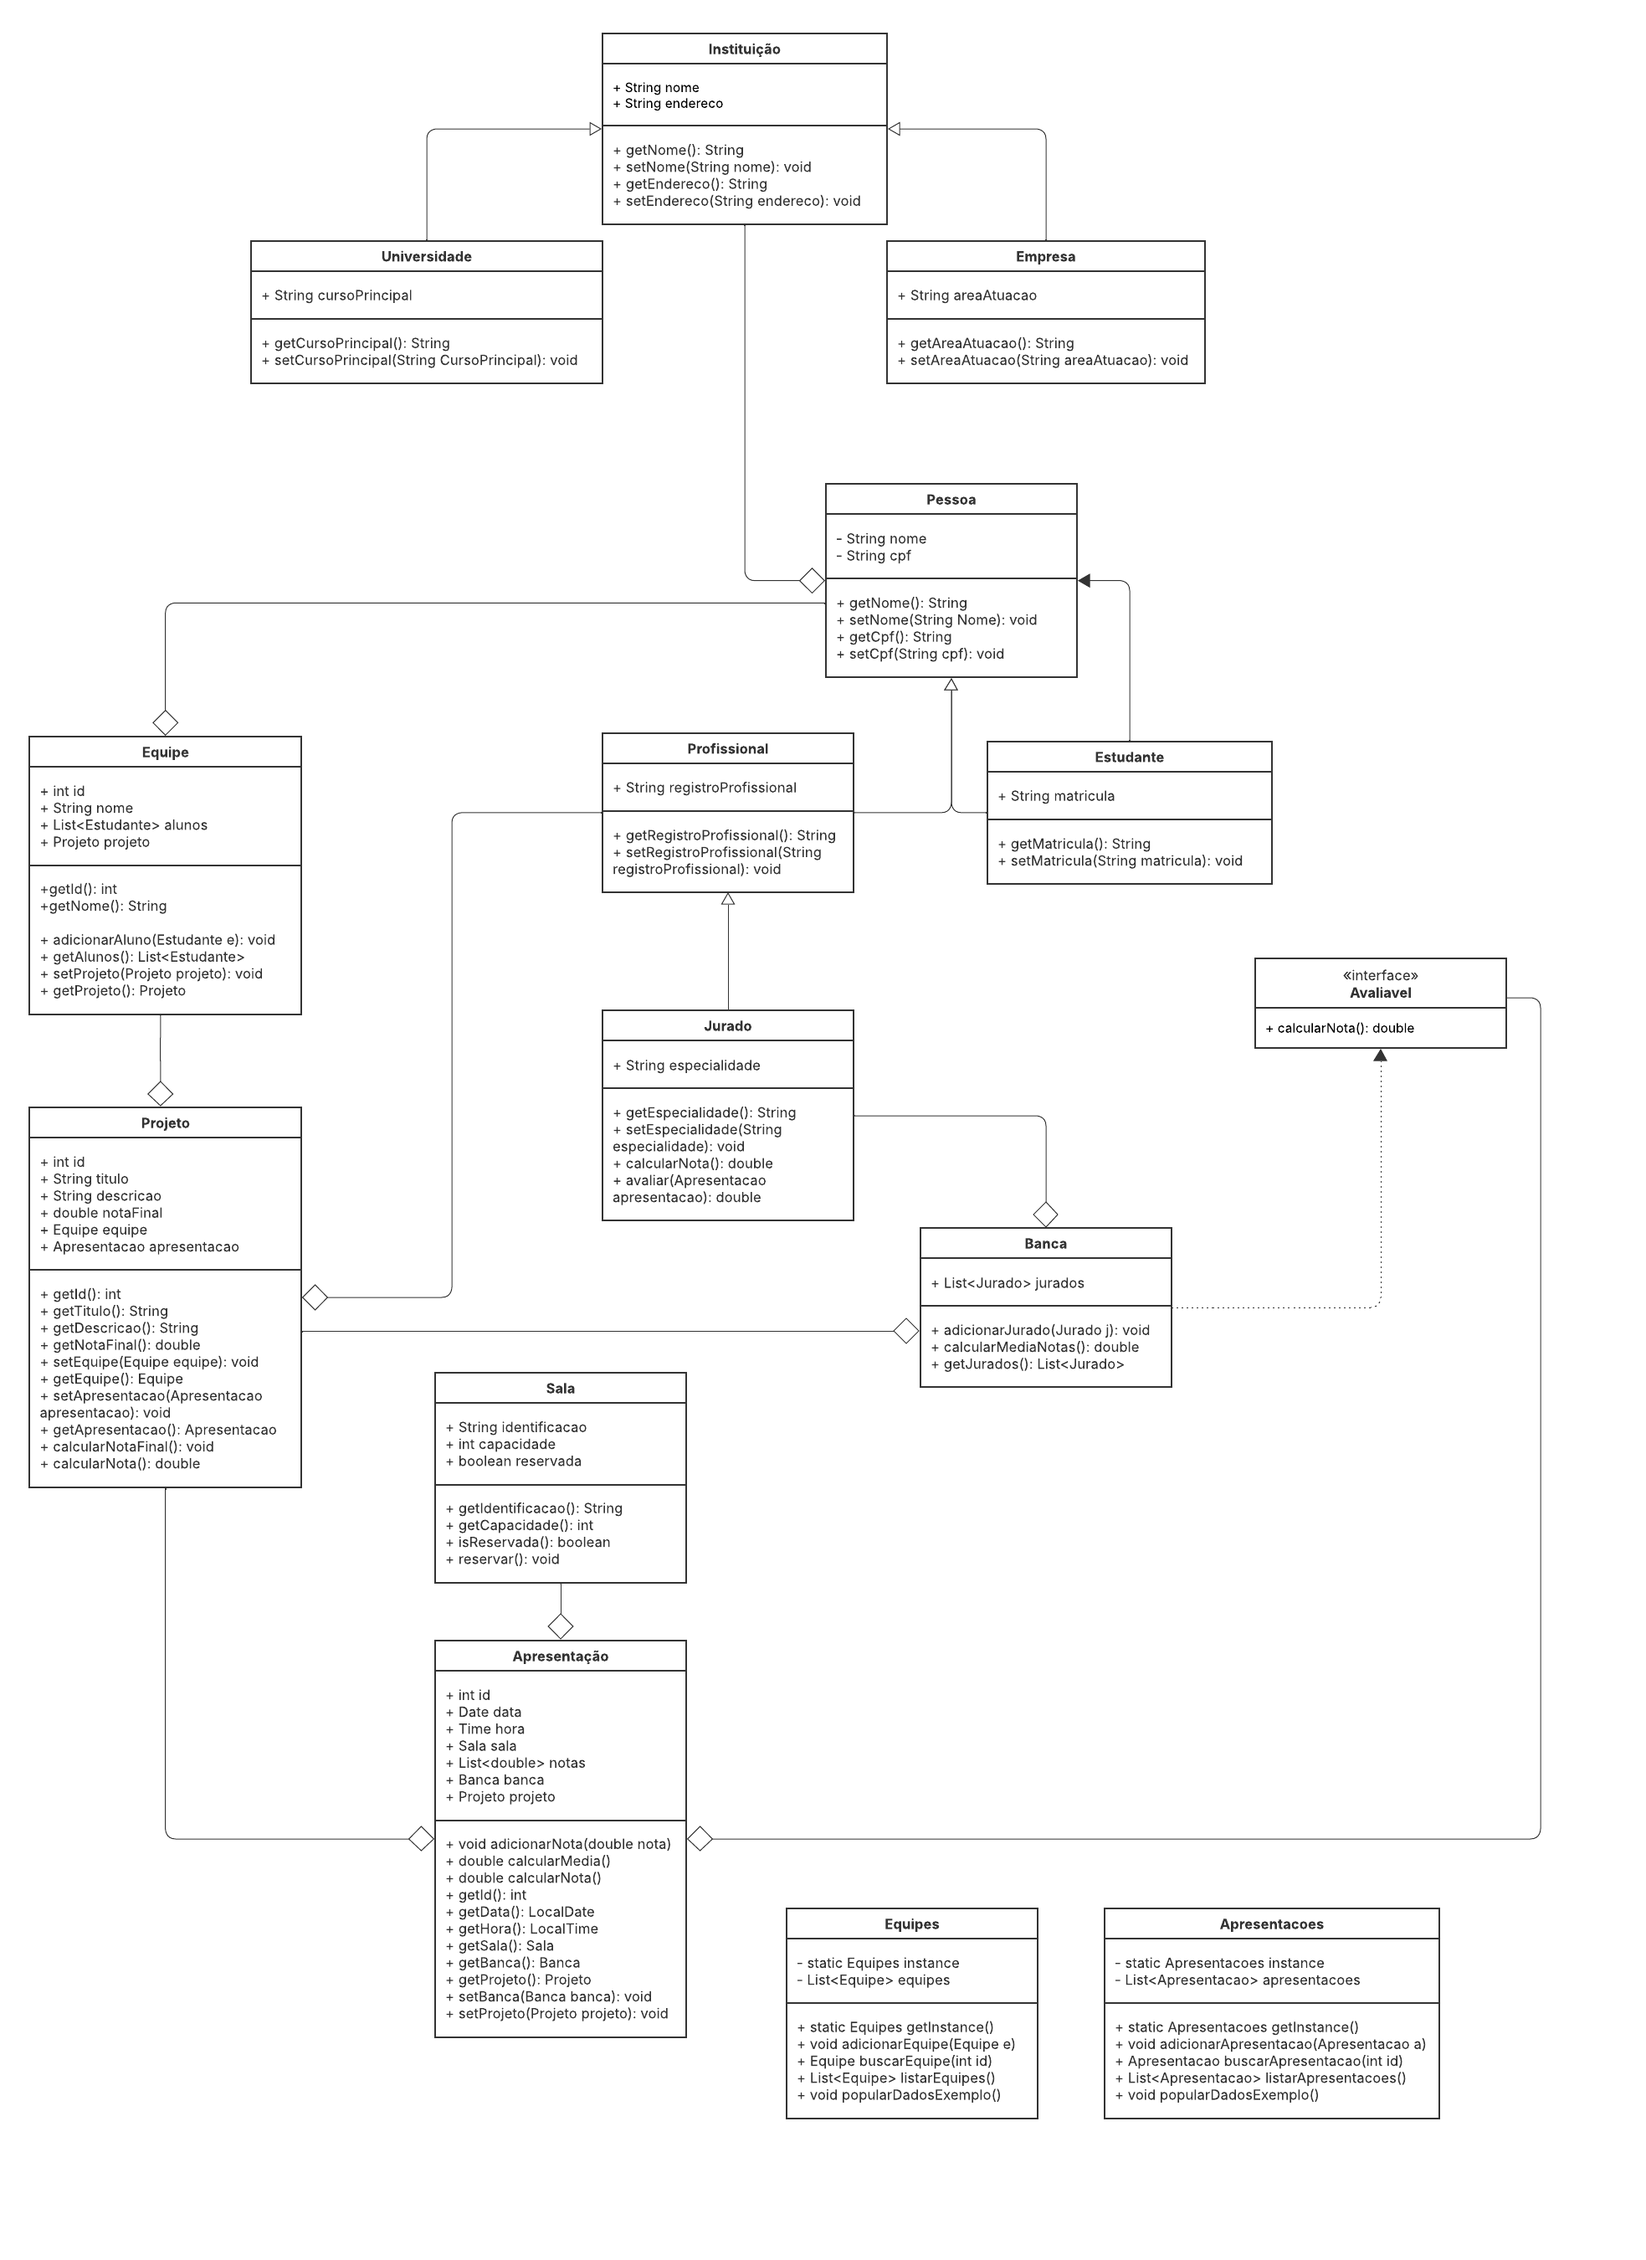
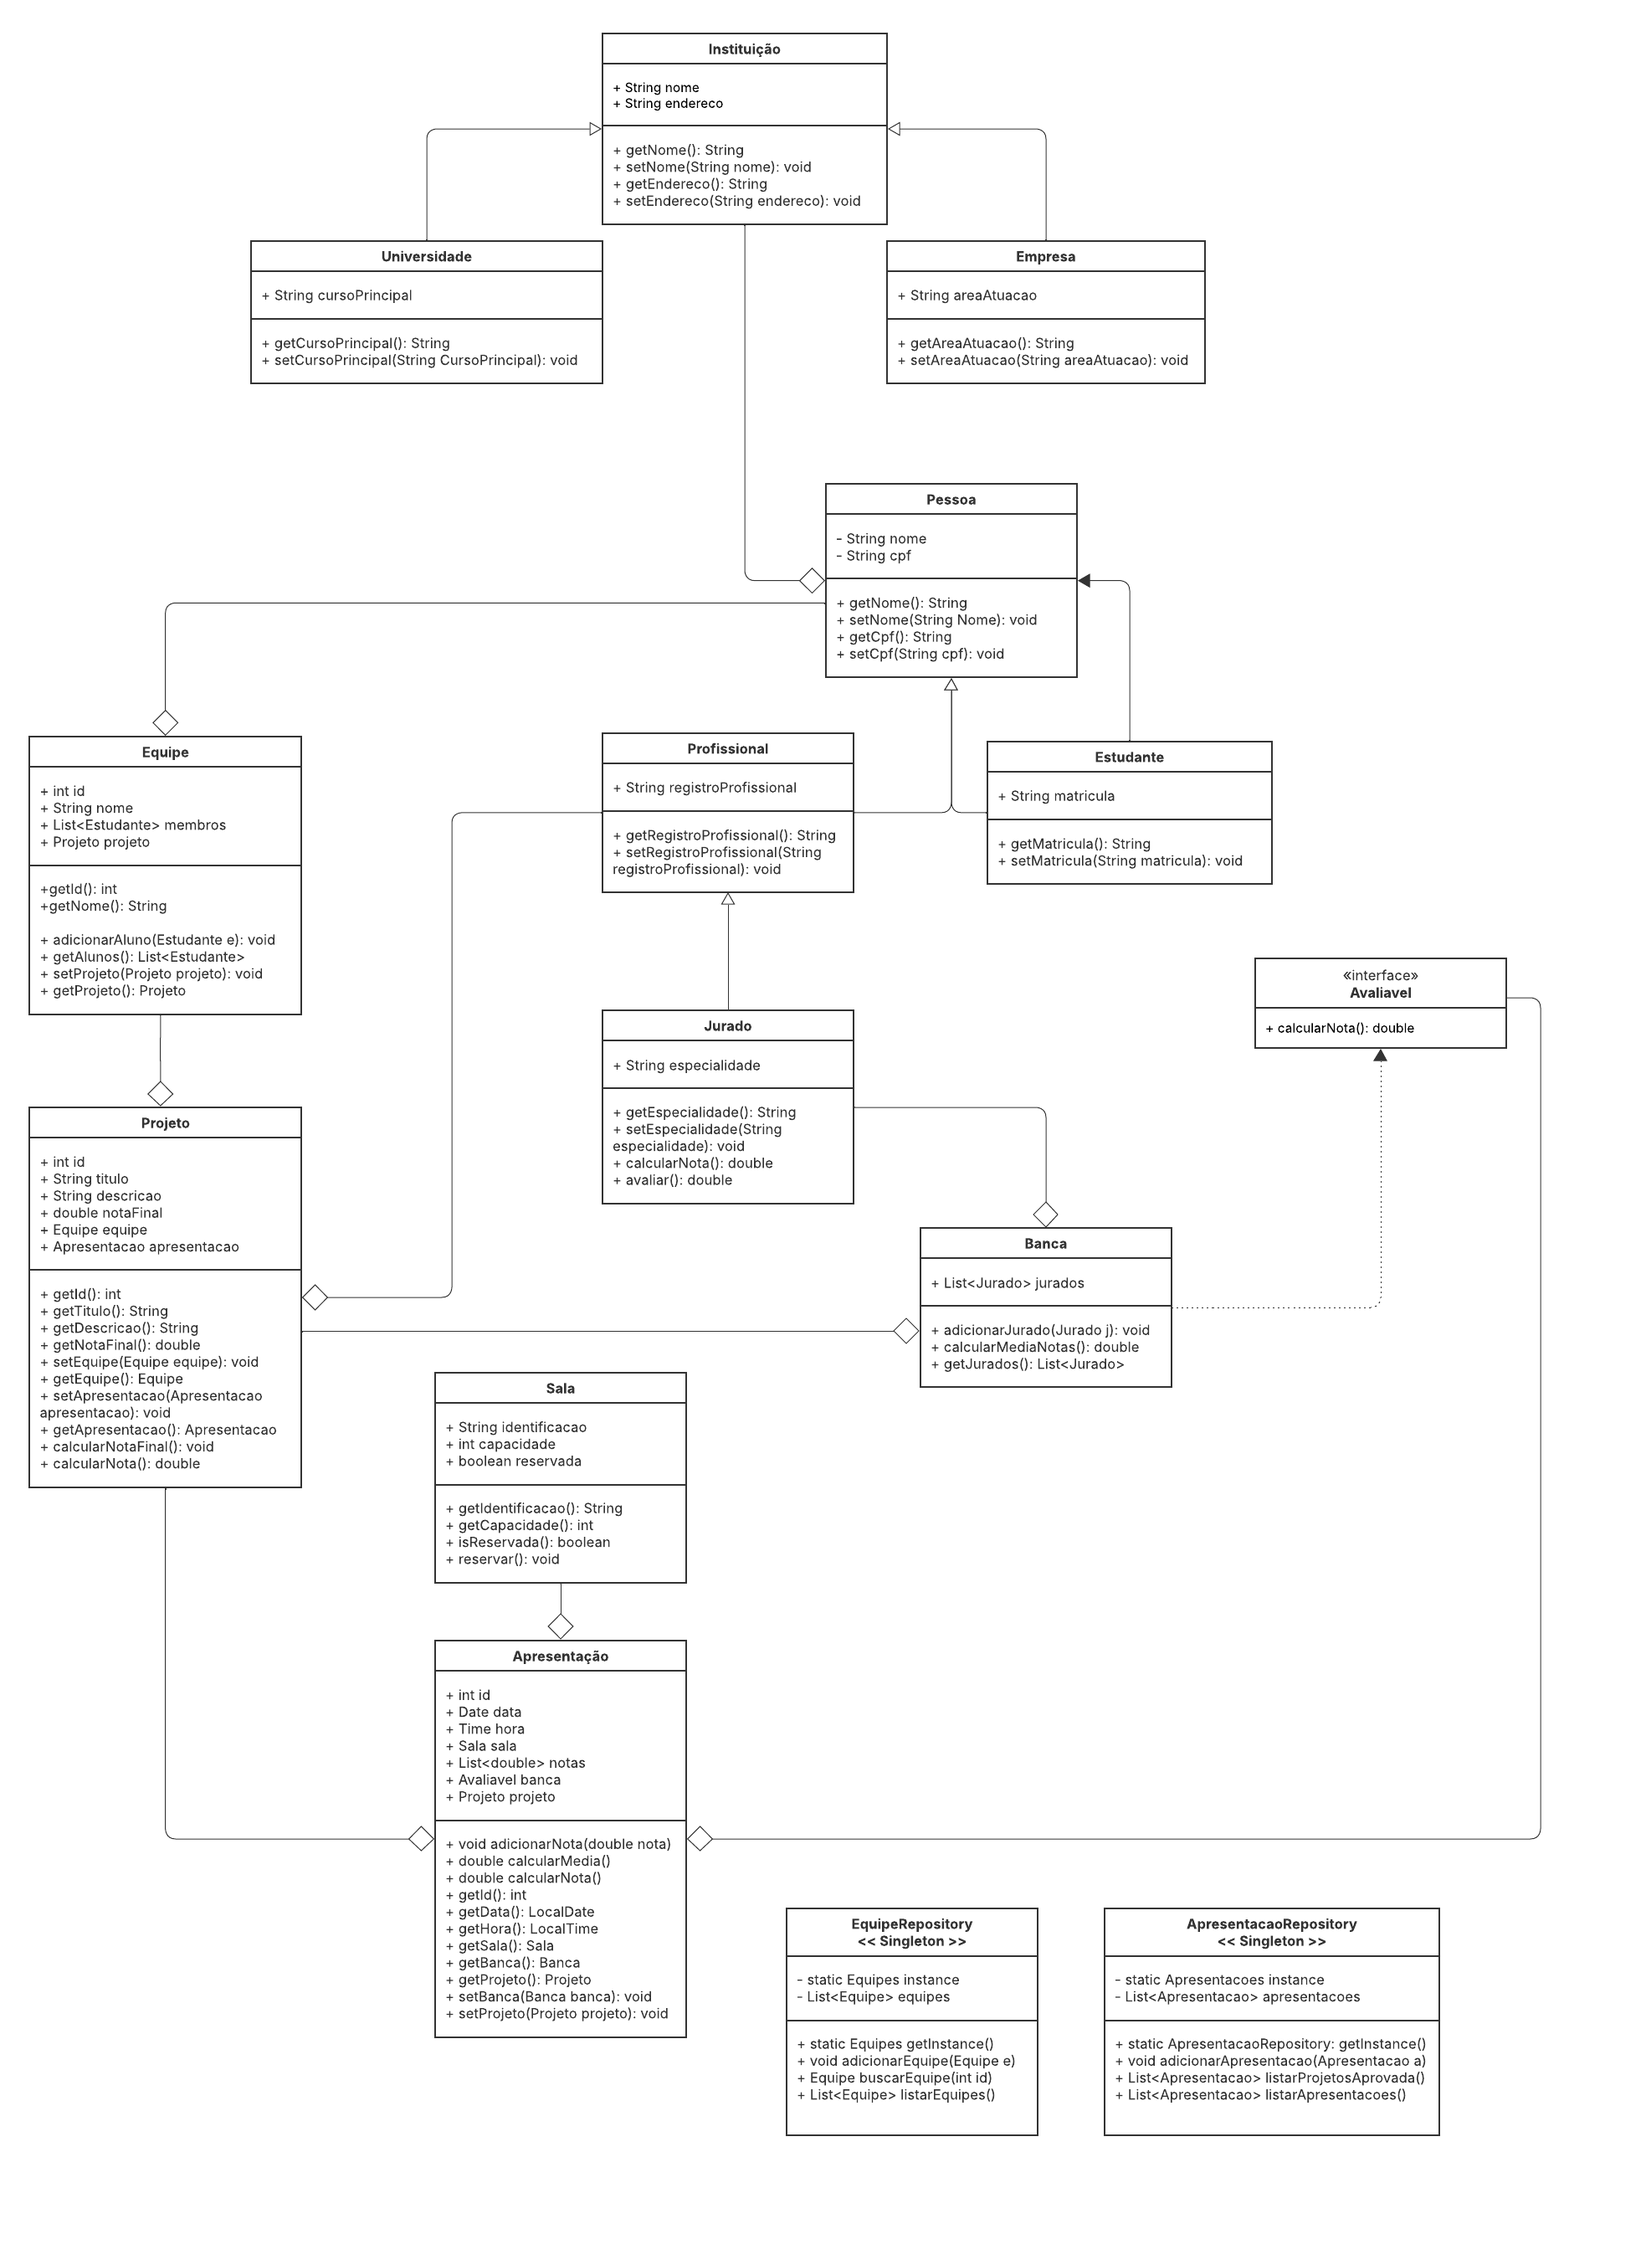
Alterações na Documentação

Changed region(s): [[0.6823, 0.84, 0.8683, 0.9333], [0.4962, 0.84, 0.6202, 0.9333], [0.3721, 0.4978, 0.4652, 0.56]]

diff --git a/src/main/java/repository/ApresentacaoRepository.java b/src/main/java/repository/ApresentacaoRepository.java
@@ -32,17 +32,6 @@ public class ApresentacaoRepository {
         apresentacoes.add(a);
     }
 
-    public Apresentacao buscarApresentacao(int id) {
-        return apresentacoes.stream()
-                             .filter(a -> a.getId() == id)
-                             .findFirst()
-                             .orElse(null);
-    }
-
-    public List<Apresentacao> listarApresentacoes() {
-        return new ArrayList<>(apresentacoes);
-    }
-
     public List<Apresentacao> listarProjetosAprovados(){
         return apresentacoes.stream()
                              .filter(a -> a.getProjeto().getNotaFinal() >= 7.0)

diff --git a/src/main/java/App.java b/src/main/java/App.java
@@ -65,7 +65,7 @@ public class App {
         a2.setProjeto(p2);
         p2.setApresentacao(a2);
 
-        // Fazer cada jurado avaliar (coleta notas que serão usadas para calcular a média), usamos numeros aleatórios para simular notas
+        
        
 
         // 5) Calcular nota final de cada projeto

diff --git a/src/main/java/model/Equipe.java b/src/main/java/model/Equipe.java
@@ -31,8 +31,8 @@ public class Equipe {
         return nome;
     }
 
-    public void adicionarAluno(Estudante e) {
-        membros.add(e);
+    public void adicionarAluno(Estudante m) {
+        membros.add(m);
     }
 
     public List<Estudante> getAlunos() {

diff --git a/src/main/java/model/Apresentacao.java b/src/main/java/model/Apresentacao.java
@@ -11,7 +11,8 @@ import java.util.List;
 
 /**
  *
- * @author gabri
+ * @author Gabriel e João Pedro
+ * Classe Apresentacao representa uma apresentação de um projeto em uma sala específica.
  */
 public class Apresentacao  {
     private int id;
